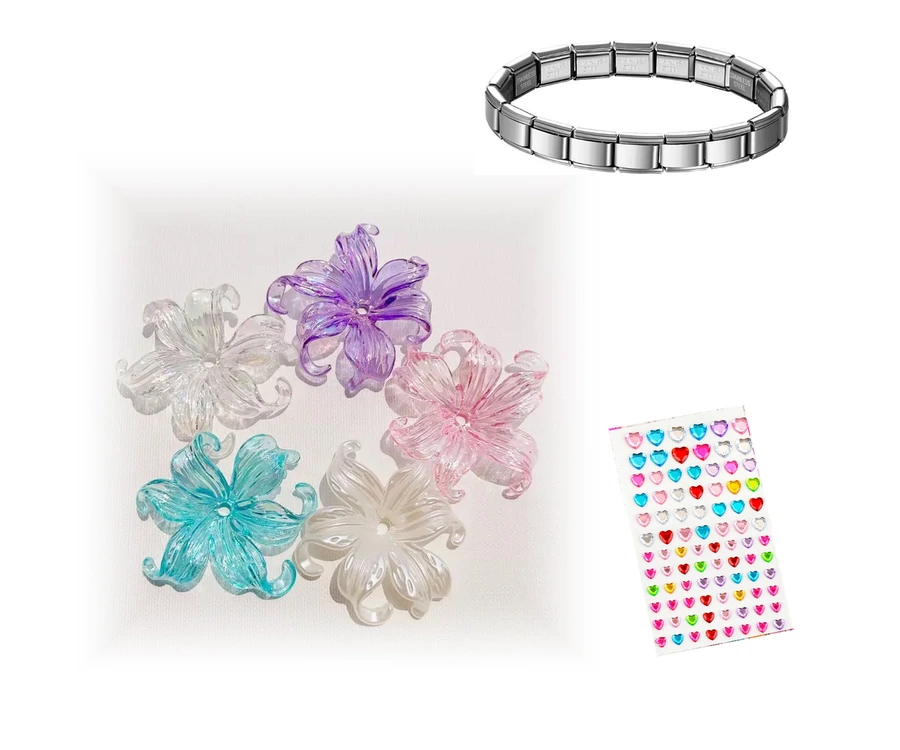
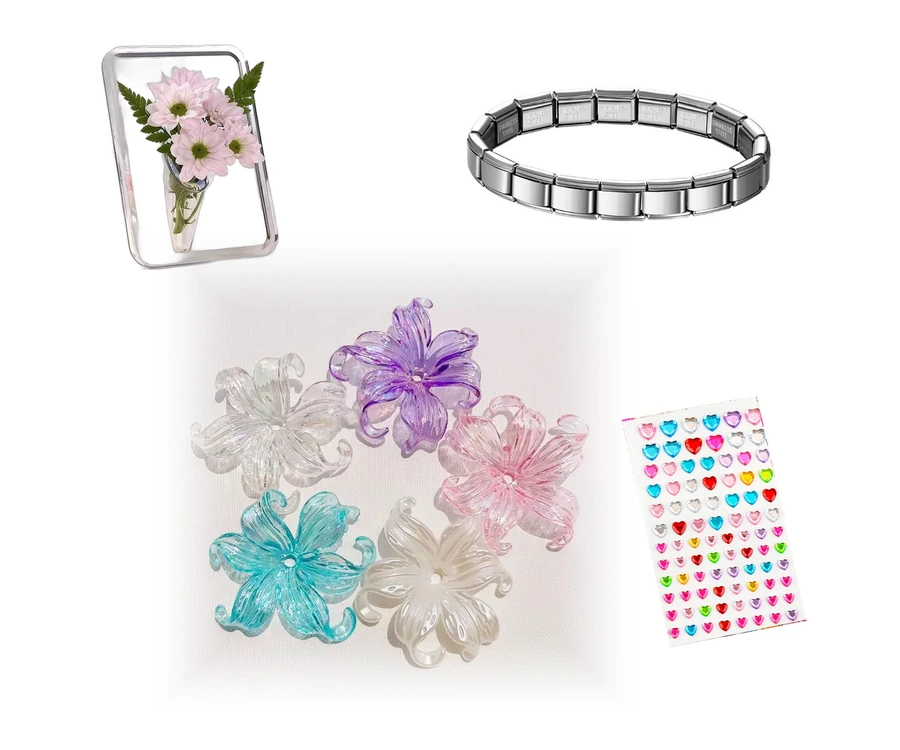
Unify homepage carousel controls (#25)
* Unify homepage carousel controls

* Keep carousel controls to transparent pagination

* Fix pagination markup

* Advance homepage slides every four seconds

* Show acrylic flower frame in the homepage overview

diff --git a/src/components/home-hero.tsx b/src/components/home-hero.tsx
@@ -6,7 +6,7 @@ import { useEffect, useRef, useState } from "react";
 import { useLanguage } from "@/components/language";
 
 const slides = [
- ['01-overview','','Acrylic petals, rhinestone stickers and a silver Italian charm bracelet'],
+ ['01-overview','','Acrylic flower frame, petals, rhinestone stickers and a silver Italian charm bracelet'],
  ['02-acrylic-petals','#petals','Five translucent acrylic flowers'],
  ['03-rhinestone-stickers','#stickers','Overlapping sheets of colorful rhinestone stickers'],
  ['04-charm-links','#charm','Six individual links: evil eye, cherries, letter A, seashell and starfish, flower, and paw print'],
@@ -37,15 +37,14 @@ const copy = {
 };
 
 const controls = {
-  en: { label: "Product highlights", pause: "Pause slideshow", play: "Play slideshow" },
-  zh: { label: "产品展示", pause: "暂停轮播", play: "播放轮播" },
-  vi: { label: "Sản phẩm nổi bật", pause: "Dừng trình chiếu", play: "Phát trình chiếu" },
+  en: { label: "Product highlights" },
+  zh: { label: "产品展示" },
+  vi: { label: "Sản phẩm nổi bật" },
 };
 
 export function HomeHero() {
   const { copyLang, market } = useLanguage();
   const [active, setActive] = useState(0);
-  const [paused, setPaused] = useState(false);
   const [hovered, setHovered] = useState(false);
   const [focused, setFocused] = useState(false);
   const [hidden, setHidden] = useState(false);
@@ -68,10 +67,10 @@ export function HomeHero() {
   }, []);
 
   useEffect(() => {
-    if (paused || hovered || focused || hidden || reducedMotion) return;
-    const timer = window.setTimeout(() => setActive((index) => (index + 1) % slides.length), 6000);
+    if (hovered || focused || hidden || reducedMotion) return;
+    const timer = window.setTimeout(() => setActive((index) => (index + 1) % slides.length), 4000);
     return () => window.clearTimeout(timer);
-  }, [active, paused, hovered, focused, hidden, reducedMotion, interaction]);
+  }, [active, hovered, focused, hidden, reducedMotion, interaction]);
 
   const [file, anchor, alt] = slides[active];
   const [title, description, cta] = copy[copyLang][active];
@@ -124,29 +123,24 @@ export function HomeHero() {
           className="aspect-[6/5] w-full object-cover md:aspect-video md:h-full"
         />
       </picture>
-      <div className="relative z-10 flex justify-end px-4 pb-3 md:absolute md:bottom-2 md:right-2 md:pb-0">
-        {slides.map(([name], index) => (
-          <button
-            key={name}
-            type="button"
-            aria-label={copy[copyLang][index][0]}
-            aria-pressed={active === index}
-            onClick={() => choose(index)}
-            className="grid size-11 cursor-pointer place-items-center"
-          >
-            <span aria-hidden className={`size-2.5 rounded-full border border-ink ${active === index ? "bg-ink" : "bg-white"}`} />
-          </button>
-        ))}
-        {!reducedMotion && (
-          <button
-            type="button"
-            aria-label={paused ? labels.play : labels.pause}
-            onClick={() => setPaused((value) => !value)}
-            className="grid size-11 cursor-pointer place-items-center"
-          >
-            <span aria-hidden>{paused ? "▶" : "Ⅱ"}</span>
-          </button>
-        )}
+      <div className="relative z-10 flex justify-center pb-4 md:absolute md:inset-x-0 md:bottom-4 md:pb-0">
+        <div className="flex items-center text-ink">
+          {slides.map(([name], index) => (
+            <button
+              key={name}
+              type="button"
+              aria-label={copy[copyLang][index][0]}
+              aria-pressed={active === index}
+              onClick={() => choose(index)}
+              className="grid h-11 w-9 cursor-pointer place-items-center rounded-full border-0 bg-transparent focus-visible:outline-2 focus-visible:outline-offset-[-3px] focus-visible:outline-ink"
+            >
+              <span
+                aria-hidden
+                className={`h-1.5 rounded-full motion-safe:transition-[width,background-color] ${active === index ? "w-4 bg-ink" : "w-1.5 bg-ink/40"}`}
+              />
+            </button>
+          ))}
+        </div>
       </div>
     </section>
   );
